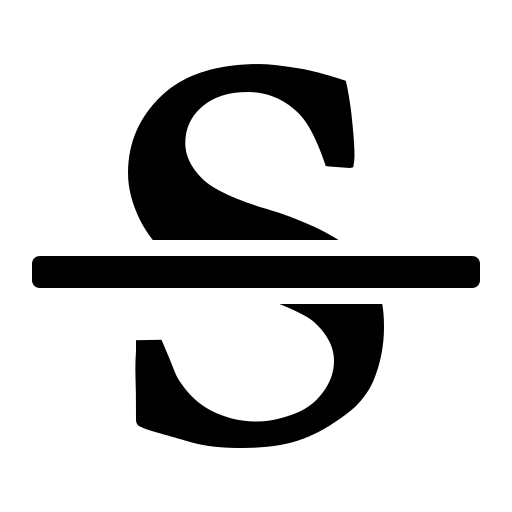
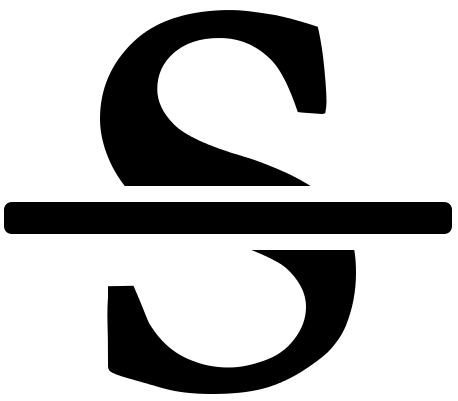
fix

Changed region(s): [[0.0, 0.0, 1.0, 0.9875]]

diff --git a/src/utils/helpers/underlineTextDecoration.js b/src/utils/helpers/underlineTextDecoration.js
@@ -1,8 +1,8 @@
 export const underlineTextDecoration = (context, color, coordinates, scale) => {
     context.beginPath()
-    context.lineWidth = '1'
+    context.lineWidth = '1px'
     context.strokeStyle = color
-    const y = coordinates[3] * scale
+    const y = (coordinates[3]-1) * scale
     context.moveTo(coordinates[0] * scale, y)
     context.lineTo(coordinates[2] * scale, y)
     context.stroke()

diff --git a/src/utils/helpers/fixWordCoordinates.js b/src/utils/helpers/fixWordCoordinates.js
@@ -2,9 +2,9 @@ export const fixWordCoordinates = (arr, size) => {
     let newArr = []
     for (let i = 0; i < arr.length; i++) {
         if (i % 2 === 0) {
-            newArr.push((arr[i] * size.width) )
+            newArr.push((arr[i] * size.width))
         } else {
-            newArr.push((arr[i] * size.height) )
+            newArr.push((arr[i] * size.height))
         }
     }
     return newArr

diff --git a/src/utils/helpers/canvasHelper.js b/src/utils/helpers/canvasHelper.js
@@ -1,6 +1,6 @@
 export function canvasHelper(context, word) {
     if (context) {
-        let fontSize = (word.coordinates[3] - word.coordinates[1])
+        let fontSize = Math.ceil(word.coordinates[3] - word.coordinates[1])
         context.font = `${fontSize}px serif`;
         let x = word.coordinates[0]
         let y = (word.coordinates[3])

diff --git a/src/utils/helpers/lineThroughTextDecoration.js b/src/utils/helpers/lineThroughTextDecoration.js
@@ -1,6 +1,6 @@
 export const lineThroughTextDecoration = (context, color, coordinates, scale) => {
     context.beginPath()
-    context.lineWidth = '1'
+    context.lineWidth = '1px'
     context.strokeStyle = color
     const y = (((coordinates[3] + coordinates[1]) / 2) + 2) * scale
     context.moveTo(coordinates[0] * scale, y)

diff --git a/src/components/Menu/Menu.module.css b/src/components/Menu/Menu.module.css
@@ -21,5 +21,5 @@
 }
 
 .button img {
-    width: 22px;
+    width: 16px;
 }
